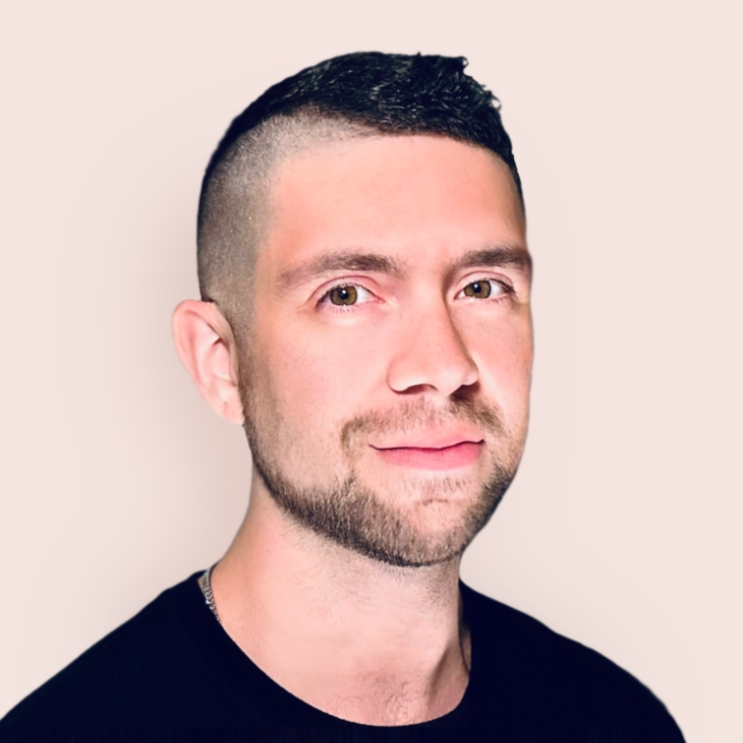
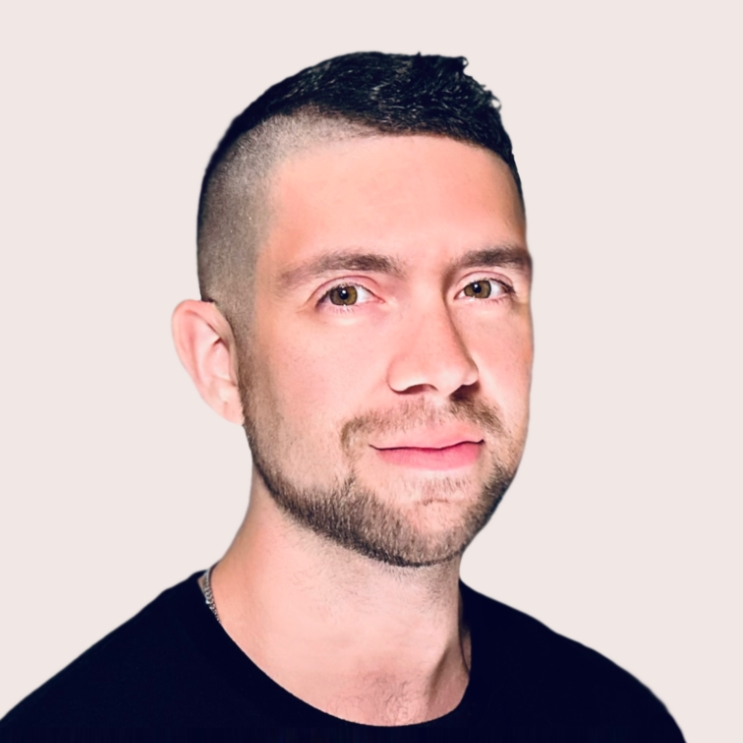
Add support for dark mode picture

Changed region(s): [[0.2167, 0.4953, 0.3405, 0.7739], [0.2167, 0.3096, 0.2786, 0.4024]]

diff --git a/src/app/page.tsx b/src/app/page.tsx
@@ -12,13 +12,10 @@ export const metadata = {
 export default function Home() {
   return (
     <main className={clsx(styles.main, styles.title)}>
-      <Image
-        className={styles.pfp}
-        src="/carlos.jpg"
-        width={175}
-        height={175}
-        alt="PFP for Carlos Kelly"
-      />
+      <picture>
+        <source srcSet="carlos_dark.jpg" media="(prefers-color-scheme: dark)" />
+        <img className={styles.pfp} src="carlos.jpg" />
+      </picture>
       <div className={styles.banner} />
       <h1 className={styles.name}>Carlos Kelly</h1>
       <h3 className={styles.biLine}>

diff --git a/src/app/page.module.css b/src/app/page.module.css
@@ -8,6 +8,8 @@
 .pfp {
   border-radius: 50%;
   margin-bottom: 1.5rem;
+  width: 175px;
+  height: 175px;
 }
 
 .banner {
